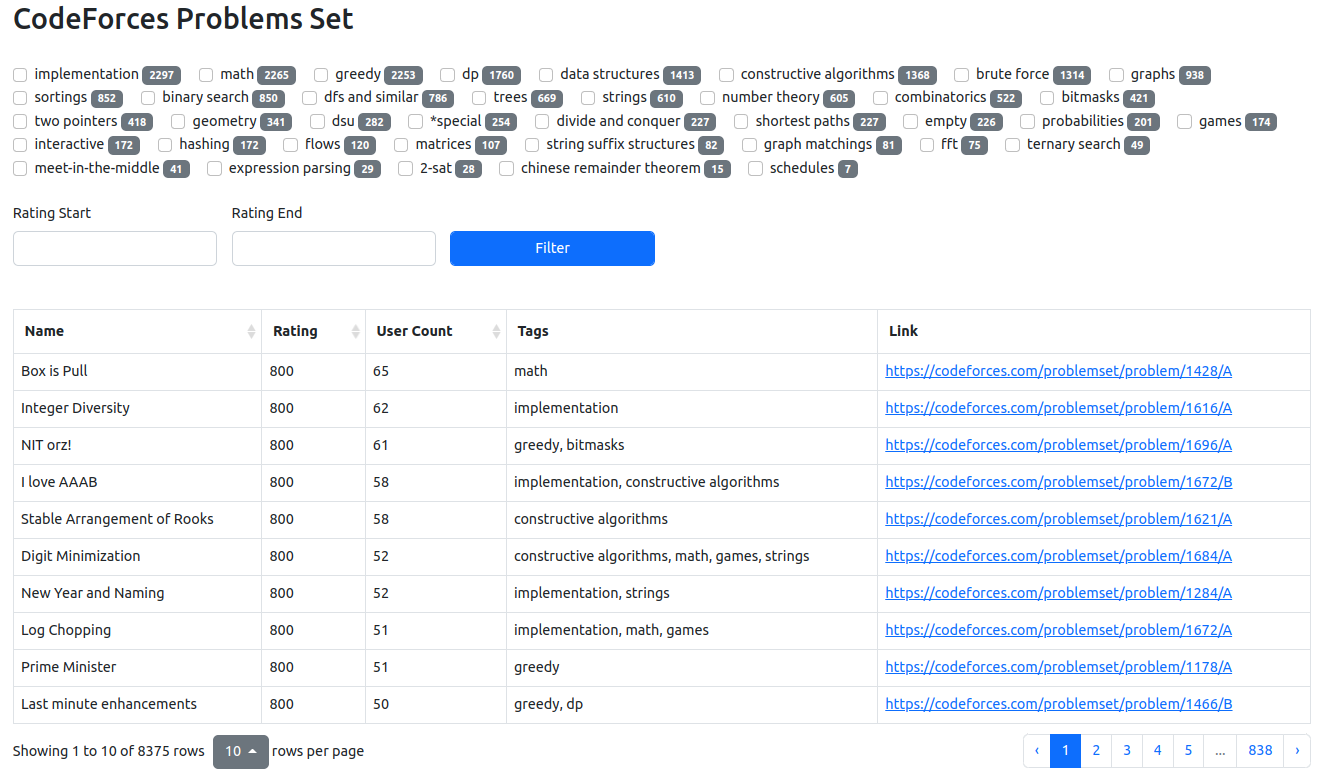
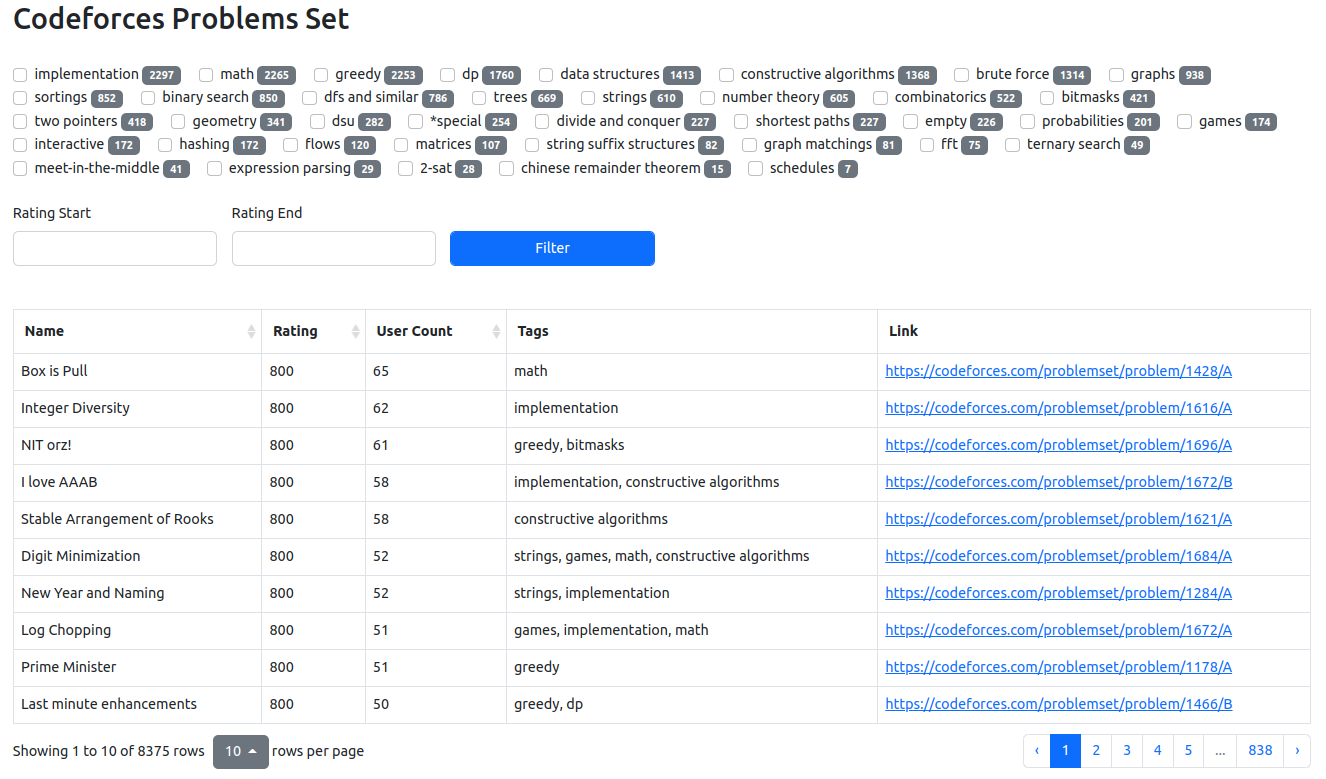
project base

Changed region(s): [[0.371, 0.7086, 0.6184, 0.7702], [0.0618, 0.0, 0.2783, 0.0616], [0.371, 0.801, 0.5256, 0.8318]]

diff --git a/templates/index.html b/templates/index.html
@@ -22,7 +22,7 @@
   <body>
     <div class="container">
       <br/>
-      <h2>CodeForces Problems Set</h2>
+      <h2>Codeforces Problems Set</h2>
       <br/>
       
       <form method="POST" action="/">
